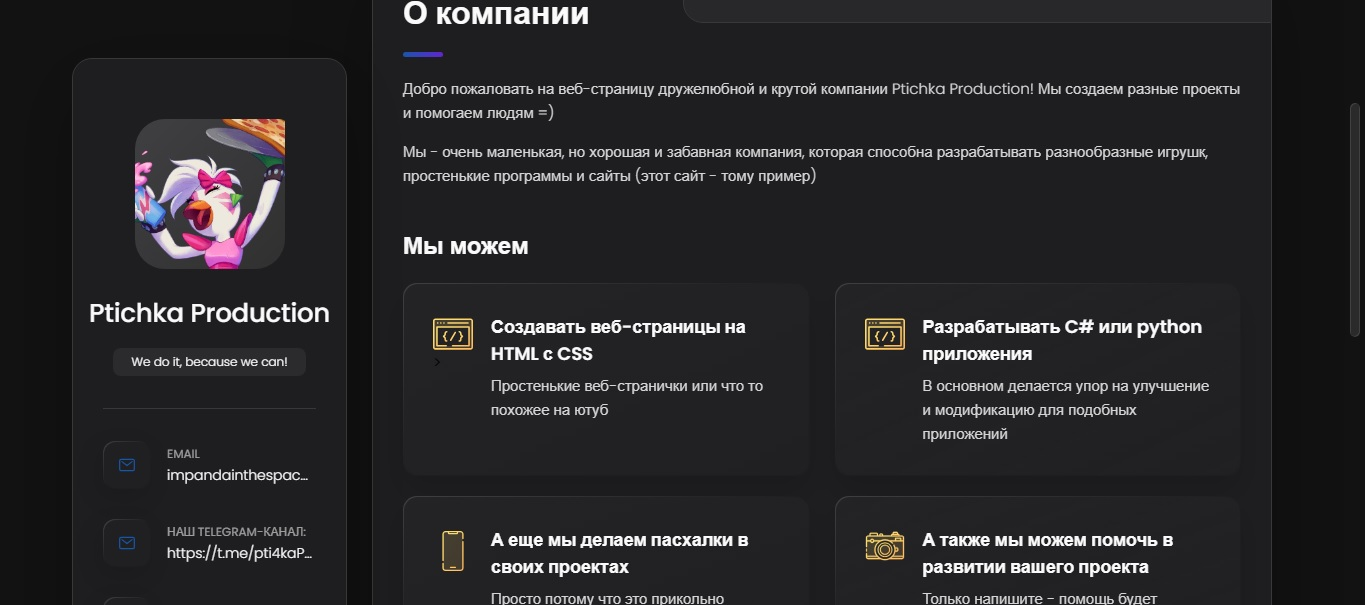
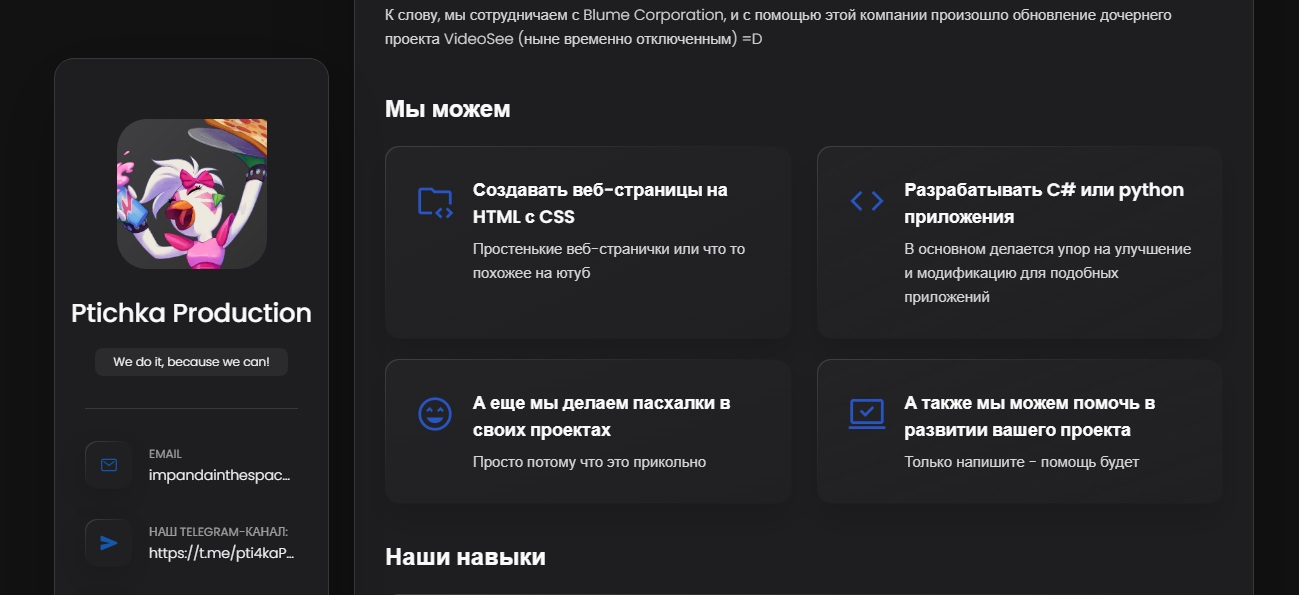
new blogs images

diff --git a/index.html b/index.html
@@ -644,7 +644,7 @@
                 <h3 class="h3 blog-item-title">Обновление главной страницы сайта компании</h3>
 
                 <p class="blog-text">
-                  Замена нескольких предложений и добавление ссылки на Telegram-канал
+                  Замена и добавление нескольких предложений, обновление иконок и добавление ссылки на Telegram-канал
                 </p>
 
               </div>
@@ -656,7 +656,7 @@
               <a href="#">
 
                 <figure class="blog-banner-box">
-                  <img src="./assets/images/blog-2.jpg" alt="VideoSee beta" loading="lazy">
+                  <img src="./assets/images/blog-5.jpg" alt="VideoSee beta" loading="lazy">
                 </figure>
 
                 <div class="blog-content">
